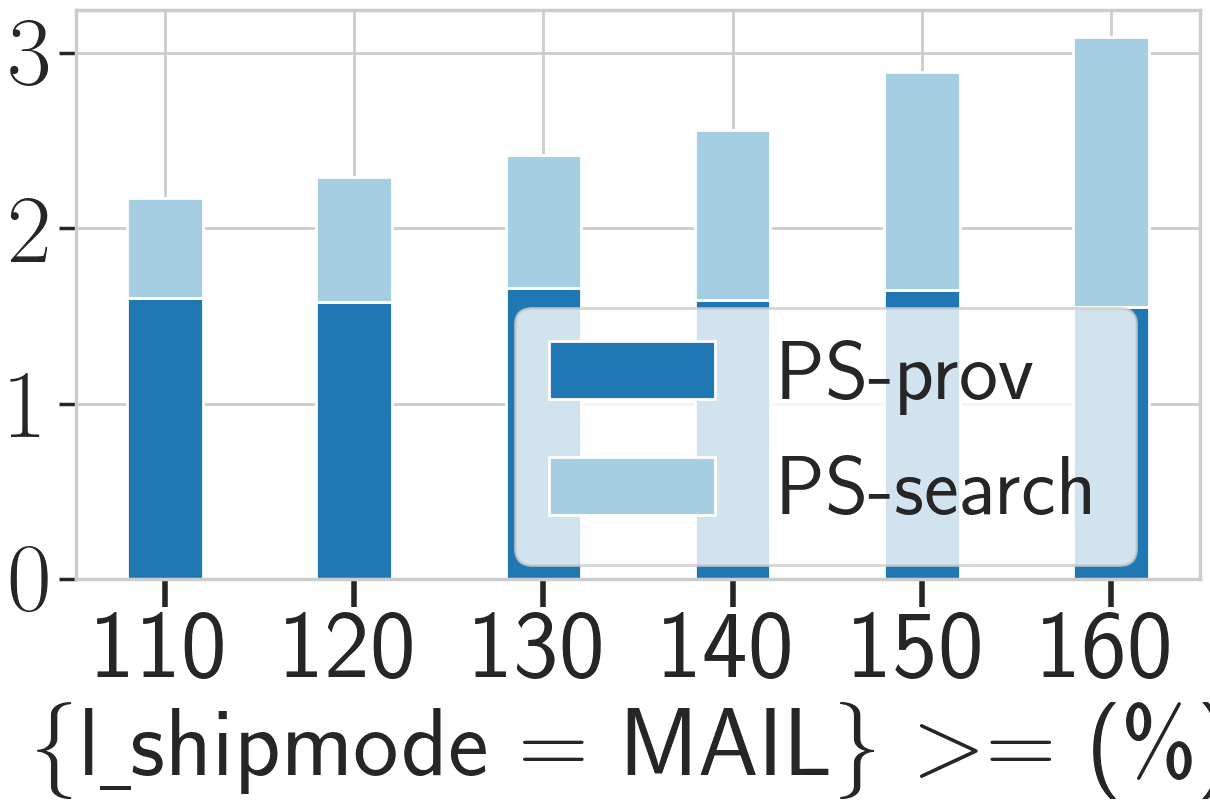
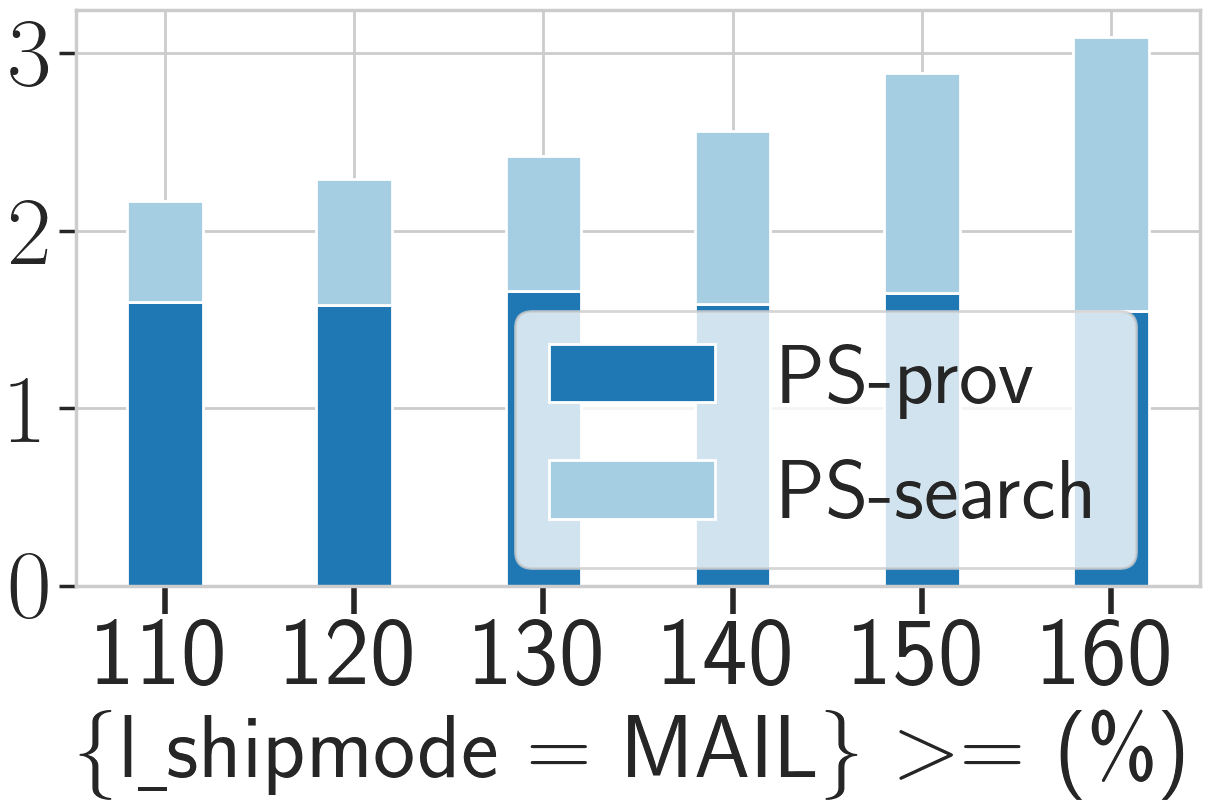
100M constraint change q3 relax

diff --git a/Experiment/TPCH/100M/constraint_change/q3_relax/fig.py b/Experiment/TPCH/100M/constraint_change/q3_relax/fig.py
@@ -84,7 +84,7 @@ def run(query, size, constraint):
     plt.xticks(np.arange(0, 6, 1), x_list, rotation=0, fontsize=70)
     plt.yticks(fontsize=70, weight='bold')
 
-    plt.xlabel(r'\{l\underline{ }shipmode = MAIL\} $>=$ (\%)')
+    plt.xlabel(r'\{l\underline{ }shipmode = MAIL\} $>=$ (\%)', fontsize=65, weight='bold')
 
     plt.legend(loc='upper right', bbox_to_anchor=(0.98, 0.55), fontsize=60)
     plt.tight_layout()
